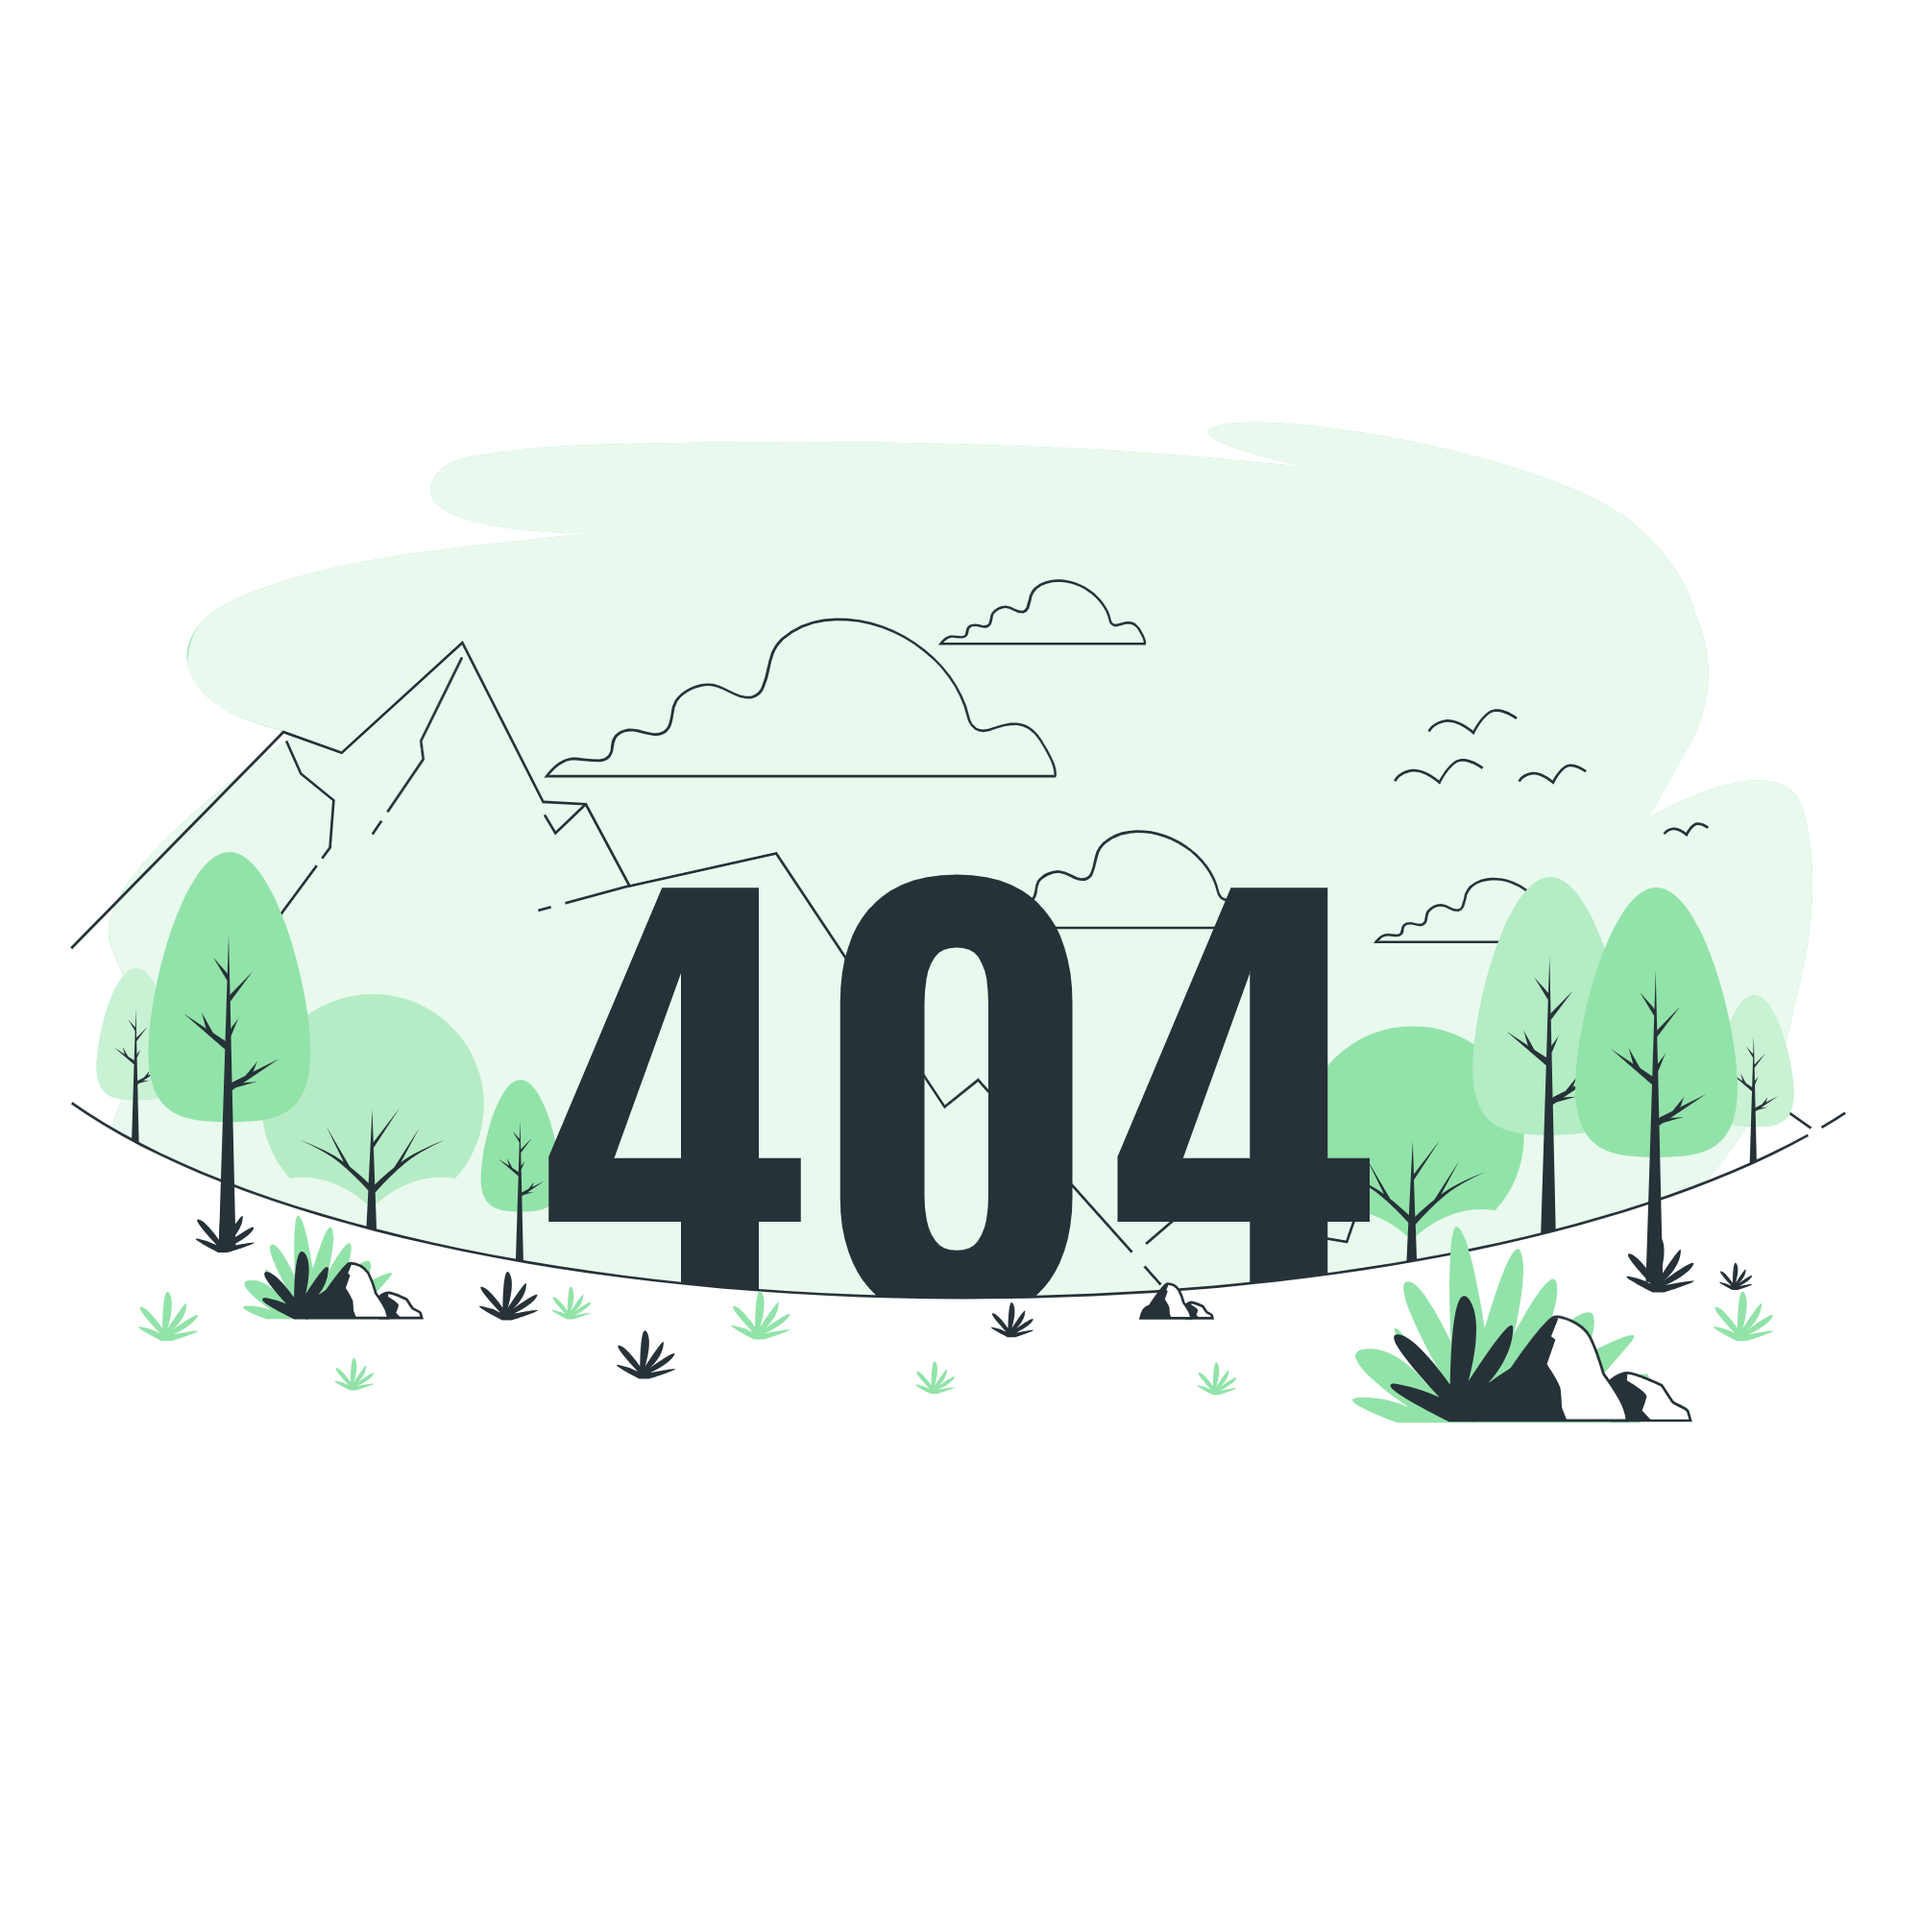
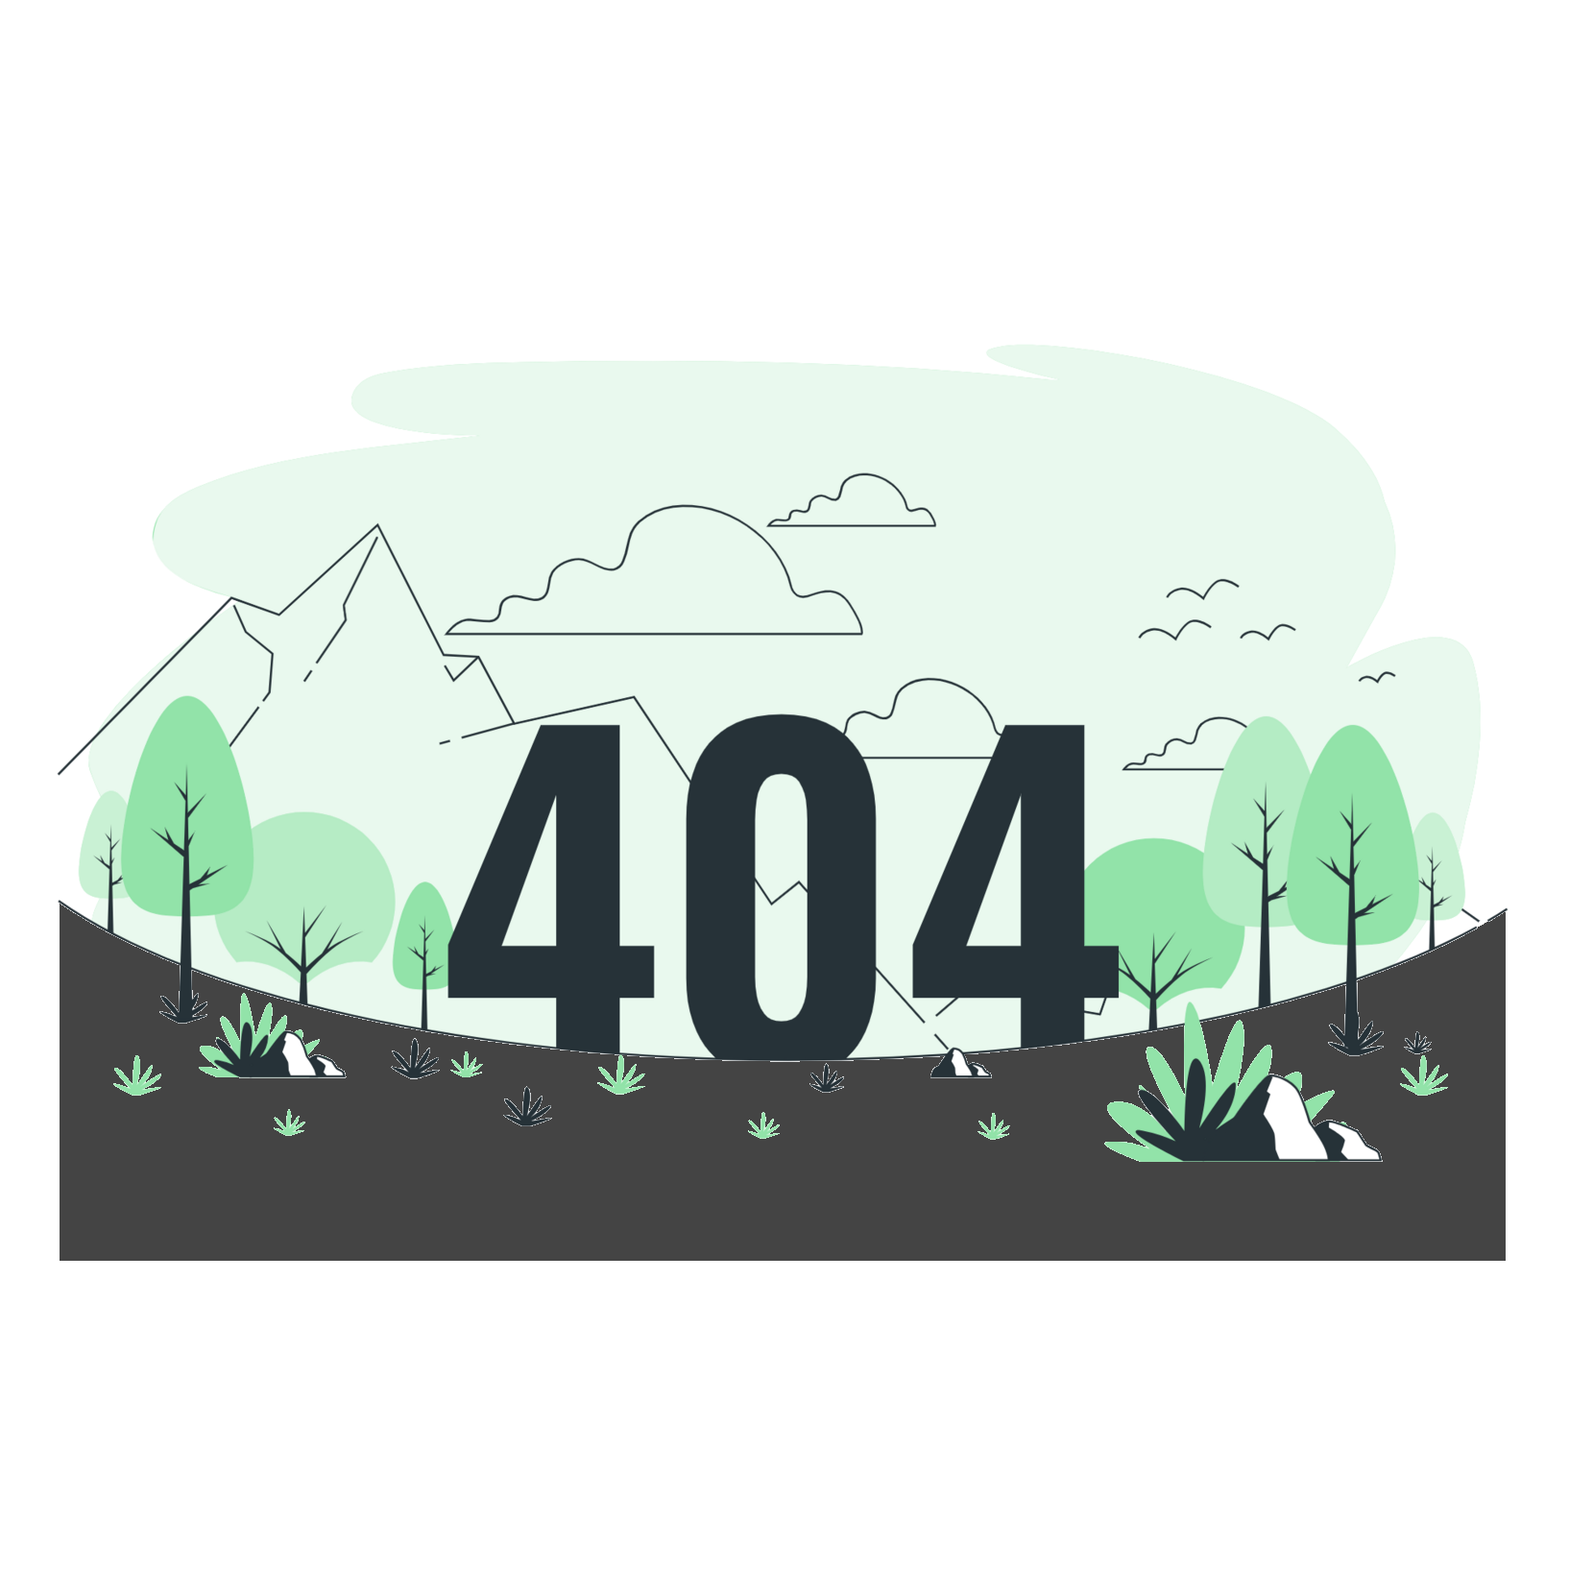
Added not found page

Changed region(s): [[0.0312, 0.5618, 0.9676, 0.8115]]

diff --git a/src/app/not-found.tsx b/src/app/not-found.tsx
@@ -1,0 +1,45 @@
+import Link from "next/link";
+import FadeInWrapper from "./(main)/FadeInWrapper";
+import Image from "next/image";
+import RootLayout from "./(main)/layout";
+import { Metadata } from "next";
+
+export const metadata: Metadata = {
+  title: "404: Page not found – ZynoraX",
+  description:
+    "Welcome to ZynoraX, where innovation meets excellence. We are a forward-thinking AI and Web Development company dedicated to empowering businesses with cutting-edge technology solutions that drive growth and success.",
+};
+
+export default function NotFound() {
+  return (
+    <RootLayout>
+      <FadeInWrapper>
+        <div className="flex items-center justify-center text-center p-4">
+          <div className="p-8 max-w-lg">
+            <h1 className="text-4xl font-semibold text-gray-300 mb-4 text-center">
+              Page Not Found
+            </h1>
+            <p className="text-lg text-gray-300 mb-2 text-center">
+              The page you&apos;re looking for doesn&apos;t exist or has been
+              moved.
+            </p>
+            <Image
+              src="/404.png"
+              alt="Blog Post Not Found"
+              width={900}
+              height={900}
+              className="mx-auto mb-2"
+            />
+            <p className="text-sm text-gray-300 text-center">
+              You can go back to the{" "}
+              <Link href="/blog" className="text-blue-500">
+                Home Page
+              </Link>{" "}
+              .
+            </p>
+          </div>
+        </div>
+      </FadeInWrapper>
+    </RootLayout>
+  );
+}

diff --git a/src/app/(blog)/blog/[slug]/page.tsx b/src/app/(blog)/blog/[slug]/page.tsx
@@ -126,7 +126,7 @@ export async function generateMetadata({
   const { slug } = await params;
   const blogPost = await getBlogBySlug(slug);
 
-  let title = "404: Blog Post Not Found – ZynoraX";
+  let title = "404: Blog post not found – ZynoraX";
   let description =
     "Welcome to ZynoraX, where innovation meets excellence. We are a forward-thinking AI and Web Development company dedicated to empowering businesses with cutting-edge technology solutions that drive growth and success.";
 
@@ -157,7 +157,7 @@ export default async function BlogPostPage({ params }: BlogPostPageProps) {
               been moved.
             </p>
             <Image
-              src="/404.png"
+              src="/404_BLOG.png"
               alt="Blog Post Not Found"
               width={900}
               height={900}
